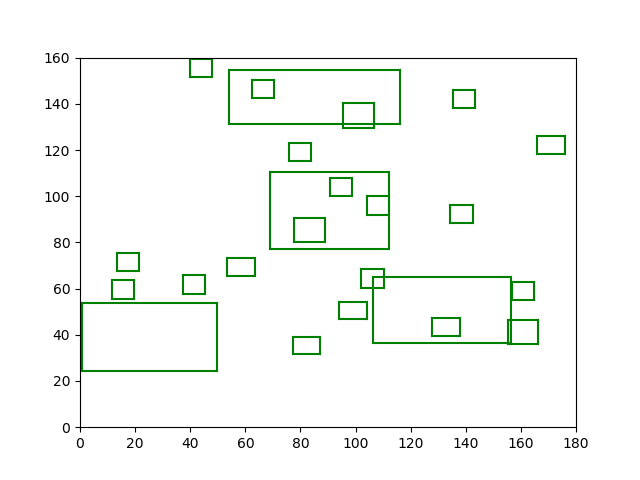
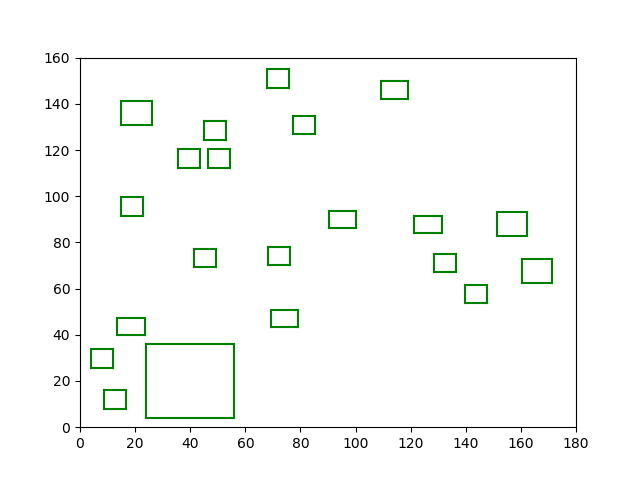
water

diff --git a/Classes/map.py b/Classes/map.py
@@ -52,6 +52,17 @@ class Map(object):
 		return construction
 
 
+	def rand_loc_water(self):
+		'''generates random location'''
+
+		loc = {'x' : random.uniform((0 + 0.5 * water.width), \
+				  	(MAP_20['width'] - 0.5 * water.width)), \
+			   'y' : random.uniform((0 + 0.5 * water.height), \
+		  			(MAP_20['height'] - 0.5 * water.height))}
+
+		return loc
+
+
 	def place_house(self, index, loc):
 
 		# copy the house to be placed
@@ -144,7 +155,7 @@ class Map(object):
 		del self.houses[index]
 
 
-	def place_water(self, nr_water, index):
+	def place_water_random(self, nr_water, index, loc):
 		'''Places water on the map
 
 		Input arguments:
@@ -152,7 +163,8 @@ class Map(object):
 		water_id -- id corresponding to the water body being placed
 		'''
 
-		# allowed = False
+		i = 0
+
 		tmp_list = []
 
         # create random x and y for water body
@@ -163,9 +175,13 @@ class Map(object):
 
 		size = {'width': x, 'height': y}
 
+		index = i
+
 		new_water = Water(index, size)
 
 		tmp_list.append(new_water)
+
+		i += 1
 
         #check if ratio is correct
 		if ((x / y) < 0.25) & ((x / y) > 4):
@@ -204,6 +220,80 @@ class Map(object):
 				return True
 
 
+	def place_water(self, index, nr_water):
+
+        # create dummy house
+		d_house = House(100,MAP_20['types_houses'][0], None)
+
+		self.construction.append(d_house)
+
+		tmp_list = []
+
+		# get location with max freespace
+		fpm = self.calc_freespace_on_map()
+
+        # initialize last location
+		j = len(fpm[1]) - 1
+		del self.construction[0]
+
+        # calculate total water body
+		area = (self.water_prev * self.width * self.height)
+
+		while len(self.water) < 4: #and area =! 0
+
+			j = j - i
+
+			# get best location from freespace_on_map
+			best_loc = fpm[0][j]
+
+            # get min freespace for best_loc[j]
+			freespace_len = fpm[1][j]
+
+			# multiply the minimal freespace to get total water body
+			width = freespace_len * 2
+			height = freespace_len * 2
+
+			size = {'width': width, 'height': height}
+
+			new_water = Water(index, size, best_loc)
+
+			tmp_list.append(new_water)
+
+			if ((width / height) < 0.25) & ((width / height) > 4):
+				return False
+
+			for water in self.water:
+
+				# check if corner is not inside other water body
+				for c in new_water.corners:
+
+					if (new_water.corners[c]['x'] >= water.corners['lb']['x'] and
+						new_water.corners[c]['x'] <= water.corners['rb']['x'] and
+					    new_water.corners[c]['y'] <= water.corners['lb']['y'] and
+					    new_water.corners[c]['y'] >= water.corners['lo']['y']):
+
+						# stop function if there is overlap
+						return False
+
+				for c in water.corners:
+
+					if (water.corners[c]['x'] >= new_water.corners['lb']['x'] and
+						water.corners[c]['x'] <= new_water.corners['rb']['x'] and
+					    water.corners[c]['y'] <= new_water.corners['lb']['y'] and
+					    water.corners[c]['y'] >= new_water.corners['lo']['y']):
+
+						# stop function if there is overlap
+						return False
+
+            # check if water is on map
+			for water in tmp_list:
+				if water.corners['lo']['x'] > 0 and water.corners['lo']['y'] > 0 \
+				and water.corners['lb']['x'] > 0 and water.corners['lb']['y'] < self.height \
+				and water.corners['ro']['x'] < self.width and water.corners['ro']['y'] > 0 \
+				and water.corners['rb']['x'] < self.width and water.corners['rb']['y'] < self.height:
+					self.water.append(water)
+					return True
+
 	def calc_freespace_on_map(self):
 		'''Calculating location with the most freespace on map. '''
 
@@ -215,6 +305,8 @@ class Map(object):
 		poss_freespace = 0
 
 		coordinates = []
+
+		fp = []
 
 		# iterate over map width
 		for i in range(5, self.width, 5):
@@ -242,6 +334,8 @@ class Map(object):
 							# update new possible freespace
 							poss_freespace = tmp
 
+							fp.append(poss_freespace)
+
 							# update location of possible freespace
 							coordinates.append({'x' : i, 'y' : j})
 
@@ -249,7 +343,7 @@ class Map(object):
 					self.remove_house(len(self.houses) - 1)
 
 		# return coordinates
-		return coordinates
+		return [coordinates, fp]
 
 	def random_swap_houses(self, nr_houses):
 		'''Moves, every iteration, three houses for optimalization.

diff --git a/Running_Scripts/test.py b/Running_Scripts/test.py
@@ -1,19 +1,98 @@
 
 from __import__ import *
 
-# ah_map = Map(MAP_20)
-# ah_map.place_water({'x': random.randint(0,160), 'y': random.randint(0,160)}, 1)
-# allowed = ah_map.place_house({'x' : 50, 'y' : 50}, 1, ah_map.types[0])
-# print(allowed)
-# allowed = ah_map.place_house({'x' : 50, 'y' : 40}, 2, ah_map.types[0])
-# print(allowed)
-#
-# for house in ah_map.houses:
-# 	print(house.freespace)
+ah_map = random_generator(MAP_20)
 
-# for i in range(10):
-ah_map = random_generator(MAP_60)
-#
-# fireworks(MAP_20)
+while len(ah_map.water) < 4:
+    ah_map.place_water(1,4)
 
 scatterplot(ah_map, 'test')
+
+# max_freespace = 0
+#
+# d_house = House(100,MAP_20['types_houses'][0], None)
+#
+# ah_map.construction.append(d_house)
+#
+# # get location with max freespace
+# fpm = ah_map.calc_freespace_on_map()
+#
+# best_loc = fpm[0][-1]
+#
+#
+# bx = []
+# sx = []
+# by = []
+# sy = []
+#
+# for house in ah_map.houses:
+#         if house.corners['lb']['x'] > best_loc['x']:
+#             bx.append(house)
+#         if house.corners['rb']['x'] < best_loc['x']:
+#             sx.append(house)
+#         if house.corners['lb']['y'] > best_loc['y']:
+#             by.append(house)
+#         if house.corners['lo']['y'] < best_loc['y']:
+#             sy.append(house)
+#
+# for house in bx:
+#     verhouding = 0
+#     bx_diff = float('inf')
+#     x_diff = house.location['x'] - best_loc['x']
+#     y_diff = abs(house.location['y'] - best_loc['y'])
+#     new_verhouding = x_diff / y_diff
+#     new_diff = house.corners['lb']['x'] - best_loc['x']
+#     if new_diff < bx_diff and new_verhouding > verhouding:
+#         bx_diff = new_diff
+#
+# for house in sx:
+#     verhouding = 0
+#     sx_diff = float('inf')
+#     x_diff = best_loc['x'] - house.location['x']
+#     y_diff = abs(house.location['y'] - best_loc['y'])
+#     new_verhouding = x_diff / y_diff
+#     new_diff = best_loc['x'] - house.corners['lb']['x']
+#     if new_diff < sx_diff and new_verhouding > verhouding:
+#         sx_diff = new_diff
+#
+# for house in by:
+#     verhouding = 0
+#     by_diff = float('inf')
+#     x_diff = abs(house.location['x'] - best_loc['x'])
+#     y_diff = house.location['y'] - best_loc['y']
+#     new_verhouding = x_diff / y_diff
+#     new_diff = house.corners['lb']['y'] - best_loc['y']
+#     if new_diff < by_diff and new_verhouding > verhouding:
+#         by_diff = new_diff
+#
+# for house in sy:
+#     verhouding = 0
+#     sy_diff = float('inf')
+#     x_diff = abs(house.location['x'] - best_loc['x'])
+#     y_diff = best_loc['y'] - house.location['y']
+#     new_verhouding = x_diff / y_diff
+#     print(new_verhouding)
+#     new_diff = best_loc['y'] - house.corners['lb']['y']
+#     if new_diff < sy_diff and new_verhouding > verhouding:
+#         sy_diff = new_diff
+#
+#
+# freespace_len = fpm[1][-1]
+# j = len(fpm[1])
+# del ah_map.construction[0]
+#
+#
+# for i in range(4):
+#
+#     j = (j - 1) - i
+#
+#     freespace_len = fpm[1][j]
+#
+#     width = freespace_len * 2
+#     height = freespace_len * 2
+#
+#     size = {'width': width, 'height': height}
+#
+#     print(size, best_loc)
+#
+#     ah_map.water.append(Water(100, size, best_loc))

diff --git a/Classes/water.py b/Classes/water.py
@@ -11,7 +11,7 @@ from Characteristics.Amstelhaege import *
 class Water(object):
 	'''Class for water object.'''
 
-	def __init__(self, self_id, size):
+	def __init__(self, self_id, size, loc):
 		'''Class is list of coordinates on where the water is placed.
 
 		Input arguments:
@@ -21,7 +21,7 @@ class Water(object):
 		self.self_id = self_id
 		self.width = size['width']
 		self.height = size['height']
-		self.location = self.create_location()
+		self.location = loc
 		self.corners = self.find_corners()
 
 
@@ -43,12 +43,12 @@ class Water(object):
 		return {'lb' : lb, 'rb': rb, 'lo': lo, 'ro': ro}
 
 
-	def create_location(self):
-		'''generates location for water bodies '''
-
-		loc = {'x' : random.uniform((0 + 0.5 * self.width), \
-				  	(MAP_20['width'] - 0.5 * self.width)), \
-			   'y' : random.uniform((0 + 0.5 * self.height), \
-		  			(MAP_20['height'] - 0.5 * self.height))}
-
-		return loc
+	# def rand_loc(self):
+	# 	'''generates location for water bodies '''
+    #
+	# 	loc = {'x' : random.uniform((0 + 0.5 * self.width), \
+	# 			  	(MAP_20['width'] - 0.5 * self.width)), \
+	# 		   'y' : random.uniform((0 + 0.5 * self.height), \
+	# 	  			(MAP_20['height'] - 0.5 * self.height))}
+    #
+	# 	return loc

diff --git a/Algorithms/helpers.py b/Algorithms/helpers.py
@@ -7,25 +7,25 @@ import matplotlib.pyplot as plot
 import matplotlib.patches as patches
 import sys
 
+
 def random_generator(map_charac):
 	'''Generates a random map.'''
 
 	out_map = Map(map_charac)
 
-	i = 0
-	nr_water = 4
-
-	# for i in range(nr_water):
-	while len(out_map.water) < nr_water:
-		out_map.place_water(nr_water, i)
-		i += 1
-
-	opp = 0
-
-	for water in out_map.water:
-		opp = opp + (water.width * water.height)
-
-	print(opp)
+	# nr_water = 4
+	# i = 0
+    #
+	# while len(out_map.water) < nr_water:
+	# 	out_map.place_water(nr_water, i)
+	# 	i += 1
+    #
+	# opp = 0
+    #
+	# for water in out_map.water:
+	# 	opp = opp + (water.width * water.height)
+    #
+	# print(opp)
 
 	for i in range(len(out_map.construction)):
 
